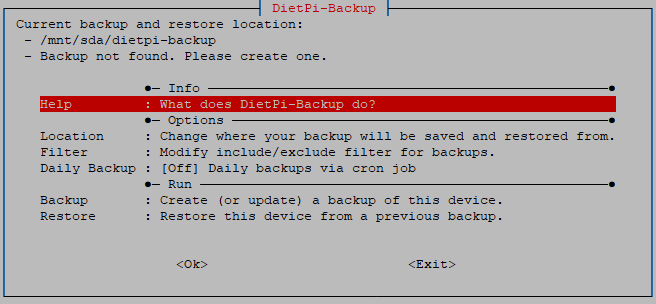
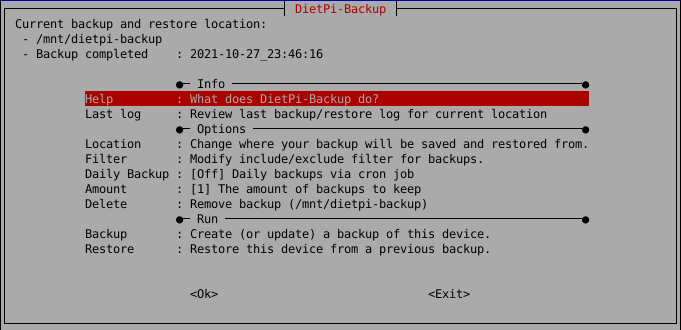
Functional extensions of dietpi-backup described

diff --git a/docs/dietpi_tools.md b/docs/dietpi_tools.md
@@ -651,7 +651,14 @@ Run `dietpi-logclear`.
 
 ### DietPi backup (backup/restore)
 
-`DietPi-Backup` allows you to backup and restore your DietPi system, similar to *Windows system restore*. It creates a snapshot of the system that you can restore at any time. You can also customise which files and directories are included and excluded through the GUI, and enable automatic daily backups.
+`DietPi-Backup` allows you to backup and restore your DietPi system, similar to *Windows system restore*. It creates a snapshot of the system that can be restored at any time.  
+`DietPi-Backup` provides the following features:
+
+- Setting of the **target directory** (also remote mounted shares are possible)
+- Customization which **files and directories** are **included** and **excluded**
+- Activation of **automatic daily backups**
+- Selection of a selectable **amount of backups to be kept**  
+  Backups are rotated automatically and if the maximum amount has been reached, the oldest backup is used as basis for the incremental new backup sync
 
 From the console, run the following command:
 
